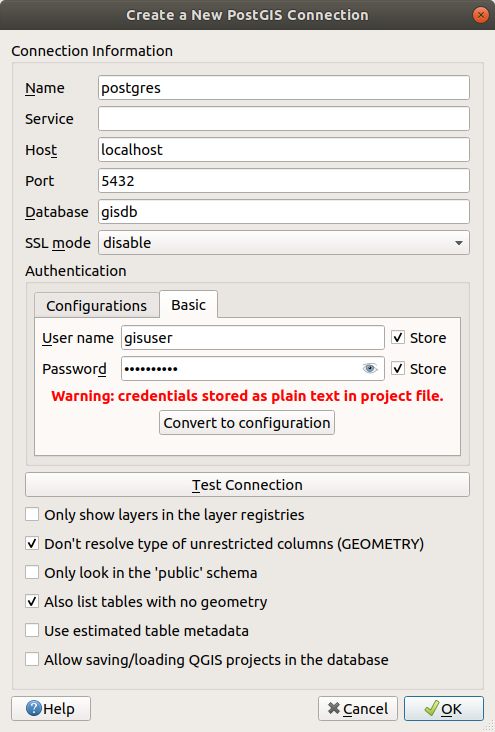
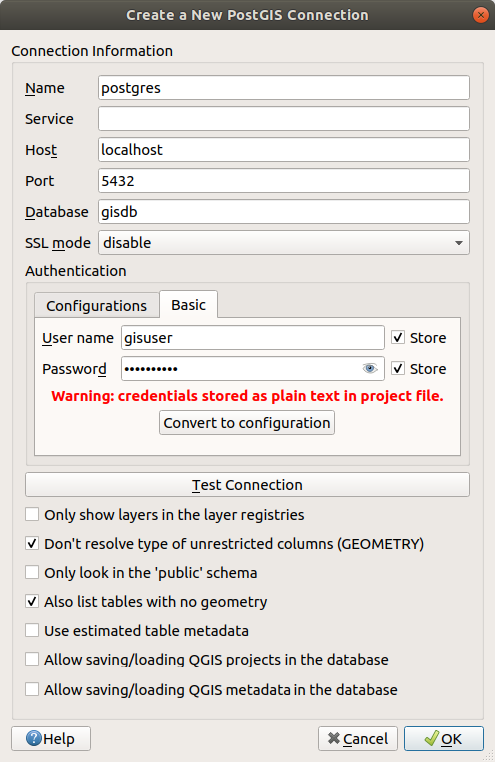
Document layer metadata search
Fix #7769

diff --git a/docs/user_manual/introduction/general_tools.rst b/docs/user_manual/introduction/general_tools.rst
@@ -177,68 +177,68 @@ right-click shows a dedicated set of options presented below.
 .. table updated with https://tableconvert.com/excel-to-restructuredtext
 .. table:: Contextual menus from Layers Panel items
 
- ============================================================ ============= =============== =============== ============= ==================== 
-  Option                                                       Group         Vector Layer    Raster Layer    Mesh Layer    Point Cloud Layer   
- ============================================================ ============= =============== =============== ============= ==================== 
-  |zoomToLayer| :guilabel:`Zoom to Layer(s)/Group`             |checkbox|    |checkbox|      |checkbox|      |checkbox|    |checkbox|          
-  |zoomToLayer| :guilabel:`Zoom to Selection`                                |checkbox|                                                        
-  |inOverview| :guilabel:`Show in Overview`                                  |checkbox|      |checkbox|      |checkbox|    |checkbox|          
-  :guilabel:`Show Feature Count`                                             |checkbox|                                                        
-  |labelingSingle| :guilabel:`Show Label`                                    |checkbox|                                                        
-  :guilabel:`Copy Layer/Group`                                 |checkbox|    |checkbox|      |checkbox|      |checkbox|    |checkbox|          
-  :guilabel:`Rename Layer/Group`                               |checkbox|    |checkbox|      |checkbox|      |checkbox|    |checkbox|          
-  |zoomActual| :guilabel:`Zoom to Native Resolution (100%)`                                  |checkbox|                                        
-  :guilabel:`Stretch Using Current Extent`                                                   |checkbox|                                        
-  |dbManager| :guilabel:`Update SQL Layer...`                                |checkbox|                                                        
-  |addVirtualLayer| :guilabel:`Edit Virtual Layer...`                        |checkbox|                                                        
-  |addGroup| :guilabel:`Add Group`                             |checkbox|                                                                      
-  |duplicateLayer| :guilabel:`Duplicate Layer`                               |checkbox|      |checkbox|      |checkbox|    |checkbox|          
-  |removeLayer| :guilabel:`Remove Layer/Group...`              |checkbox|    |checkbox|      |checkbox|      |checkbox|    |checkbox|          
-  :guilabel:`Move Out of Group`                                              |checkbox|      |checkbox|      |checkbox|    |checkbox|          
-  :guilabel:`Move to Top`                                      |checkbox|    |checkbox|      |checkbox|      |checkbox|    |checkbox|          
-  :guilabel:`Move to Bottom`                                   |checkbox|    |checkbox|      |checkbox|      |checkbox|    |checkbox|          
-  :guilabel:`Check and all its Parents`                                      |checkbox|      |checkbox|      |checkbox|    |checkbox|          
-  :guilabel:`Group Selected`                                                 |checkbox|      |checkbox|      |checkbox|    |checkbox|          
-  |openTable| :guilabel:`Open Attribute Table`                               |checkbox|                                                        
-  |toggleEditing| :guilabel:`Toggle Editing`                                 |checkbox|                      |checkbox|                        
-  |allEdits| :menuselection:`Current Edits -->`                              |checkbox|                      |checkbox|                        
-  :guilabel:`Filter...`                                                      |checkbox|      |checkbox|                    |checkbox|          
-  :guilabel:`Change Data Source...`                                          |checkbox|      |checkbox|      |checkbox|    |checkbox|          
-  :guilabel:`Repair Data Source...`                                          |checkbox|      |checkbox|      |checkbox|    |checkbox|          
-  :menuselection:`Actions on selections -->` (in edit mode)                  |checkbox|                                                        
-  :menuselection:`--> Duplicate Feature`                                     |checkbox|                                                        
-  :menuselection:`--> Duplicate Feature and Digitize`                        |checkbox|                                                        
-  :guilabel:`Set Layer Scale Visibility...`                                  |checkbox|      |checkbox|      |checkbox|    |checkbox|          
-  :guilabel:`Zoom to Visible Scale`                                          |checkbox|      |checkbox|      |checkbox|    |checkbox|          
-  :menuselection:`Layer CRS -->`                                             |checkbox|      |checkbox|      |checkbox|    |checkbox|          
-  :menuselection:`--> Set Project CRS from Layer`                            |checkbox|      |checkbox|      |checkbox|    |checkbox|          
-  :menuselection:`--> Set to..` (recent CRSs)                                                                |checkbox|    |checkbox|          
-  :menuselection:`--> Set Layer CRS...`                                      |checkbox|      |checkbox|      |checkbox|    |checkbox|          
-  :menuselection:`Set Group CRS...`                            |checkbox|                                                                      
-  :guilabel:`Set Group WMS Data...`                            |checkbox|                                                                      
-  |unchecked| :guilabel:`Mutually Exclusive Group`             |checkbox|                                                                      
-  :guilabel:`Check and all its children (Ctrl-click)`          |checkbox|                                                                      
-  :guilabel:`Uncheck and all its children (Ctrl-click)`        |checkbox|                                                                      
-  :guilabel:`Make Permanent`                                                 |checkbox|                                                        
-  :menuselection:`Export -->`                                  |checkbox|    |checkbox|      |checkbox|      |checkbox|    |checkbox|          
-  :menuselection:`--> Save As...`                                                            |checkbox|                                        
-  :menuselection:`--> Save Features As...`                                   |checkbox|                                                        
-  :menuselection:`--> Save Selected Features As...`                          |checkbox|                                                        
-  :menuselection:`--> Save As Layer Definition File...`        |checkbox|    |checkbox|      |checkbox|      |checkbox|    |checkbox|          
-  :menuselection:`--> Save As QGIS Layer Style File...`                      |checkbox|      |checkbox|      |checkbox|    |checkbox|          
-  :menuselection:`Styles -->`                                                |checkbox|      |checkbox|      |checkbox|    |checkbox|          
-  :menuselection:`--> Copy Style`                                            |checkbox|      |checkbox|      |checkbox|    |checkbox|          
-  :menuselection:`--> Paste Style`                             |checkbox|    |checkbox|      |checkbox|      |checkbox|    |checkbox|          
-  :menuselection:`--> Add...`                                                |checkbox|      |checkbox|      |checkbox|    |checkbox|          
-  :menuselection:`--> Rename Current...`                                     |checkbox|      |checkbox|      |checkbox|    |checkbox|          
-  :menuselection:`--> Edit symbol...`                                        |checkbox|                                                        
-  :menuselection:`--> Copy Symbol`                                           |checkbox|                                                        
-  :menuselection:`--> Paste Symbol`                                          |checkbox|                                                        
-  :guilabel:`Add Layer Notes...`                                             |checkbox|      |checkbox|      |checkbox|    |checkbox|          
-  :guilabel:`Edit Layer Notes...`                                            |checkbox|      |checkbox|      |checkbox|    |checkbox|          
-  :guilabel:`Remove Layer Notes`                                             |checkbox|      |checkbox|      |checkbox|    |checkbox|          
-  :guilabel:`Properties...`                                                  |checkbox|      |checkbox|      |checkbox|    |checkbox|          
- ============================================================ ============= =============== =============== ============= ==================== 
+ ============================================================ ============= =============== =============== ============= ====================
+  Option                                                       Group         Vector Layer    Raster Layer    Mesh Layer    Point Cloud Layer
+ ============================================================ ============= =============== =============== ============= ====================
+  |zoomToLayer| :guilabel:`Zoom to Layer(s)/Group`             |checkbox|    |checkbox|      |checkbox|      |checkbox|    |checkbox|
+  |zoomToLayer| :guilabel:`Zoom to Selection`                                |checkbox|
+  |inOverview| :guilabel:`Show in Overview`                                  |checkbox|      |checkbox|      |checkbox|    |checkbox|
+  :guilabel:`Show Feature Count`                                             |checkbox|
+  |labelingSingle| :guilabel:`Show Label`                                    |checkbox|
+  :guilabel:`Copy Layer/Group`                                 |checkbox|    |checkbox|      |checkbox|      |checkbox|    |checkbox|
+  :guilabel:`Rename Layer/Group`                               |checkbox|    |checkbox|      |checkbox|      |checkbox|    |checkbox|
+  |zoomActual| :guilabel:`Zoom to Native Resolution (100%)`                                  |checkbox|
+  :guilabel:`Stretch Using Current Extent`                                                   |checkbox|
+  |dbManager| :guilabel:`Update SQL Layer...`                                |checkbox|
+  |addVirtualLayer| :guilabel:`Edit Virtual Layer...`                        |checkbox|
+  |addGroup| :guilabel:`Add Group`                             |checkbox|
+  |duplicateLayer| :guilabel:`Duplicate Layer`                               |checkbox|      |checkbox|      |checkbox|    |checkbox|
+  |removeLayer| :guilabel:`Remove Layer/Group...`              |checkbox|    |checkbox|      |checkbox|      |checkbox|    |checkbox|
+  :guilabel:`Move Out of Group`                                              |checkbox|      |checkbox|      |checkbox|    |checkbox|
+  :guilabel:`Move to Top`                                      |checkbox|    |checkbox|      |checkbox|      |checkbox|    |checkbox|
+  :guilabel:`Move to Bottom`                                   |checkbox|    |checkbox|      |checkbox|      |checkbox|    |checkbox|
+  :guilabel:`Check and all its Parents`                                      |checkbox|      |checkbox|      |checkbox|    |checkbox|
+  :guilabel:`Group Selected`                                                 |checkbox|      |checkbox|      |checkbox|    |checkbox|
+  |openTable| :guilabel:`Open Attribute Table`                               |checkbox|
+  |toggleEditing| :guilabel:`Toggle Editing`                                 |checkbox|                      |checkbox|
+  |allEdits| :menuselection:`Current Edits -->`                              |checkbox|                      |checkbox|
+  :guilabel:`Filter...`                                                      |checkbox|      |checkbox|                    |checkbox|
+  :guilabel:`Change Data Source...`                                          |checkbox|      |checkbox|      |checkbox|    |checkbox|
+  :guilabel:`Repair Data Source...`                                          |checkbox|      |checkbox|      |checkbox|    |checkbox|
+  :menuselection:`Actions on selections -->` (in edit mode)                  |checkbox|
+  :menuselection:`--> Duplicate Feature`                                     |checkbox|
+  :menuselection:`--> Duplicate Feature and Digitize`                        |checkbox|
+  :guilabel:`Set Layer Scale Visibility...`                                  |checkbox|      |checkbox|      |checkbox|    |checkbox|
+  :guilabel:`Zoom to Visible Scale`                                          |checkbox|      |checkbox|      |checkbox|    |checkbox|
+  :menuselection:`Layer CRS -->`                                             |checkbox|      |checkbox|      |checkbox|    |checkbox|
+  :menuselection:`--> Set Project CRS from Layer`                            |checkbox|      |checkbox|      |checkbox|    |checkbox|
+  :menuselection:`--> Set to..` (recent CRSs)                                                                |checkbox|    |checkbox|
+  :menuselection:`--> Set Layer CRS...`                                      |checkbox|      |checkbox|      |checkbox|    |checkbox|
+  :menuselection:`Set Group CRS...`                            |checkbox|
+  :guilabel:`Set Group WMS Data...`                            |checkbox|
+  |unchecked| :guilabel:`Mutually Exclusive Group`             |checkbox|
+  :guilabel:`Check and all its children (Ctrl-click)`          |checkbox|
+  :guilabel:`Uncheck and all its children (Ctrl-click)`        |checkbox|
+  :guilabel:`Make Permanent`                                                 |checkbox|
+  :menuselection:`Export -->`                                  |checkbox|    |checkbox|      |checkbox|      |checkbox|    |checkbox|
+  :menuselection:`--> Save As...`                                                            |checkbox|
+  :menuselection:`--> Save Features As...`                                   |checkbox|
+  :menuselection:`--> Save Selected Features As...`                          |checkbox|
+  :menuselection:`--> Save As Layer Definition File...`        |checkbox|    |checkbox|      |checkbox|      |checkbox|    |checkbox|
+  :menuselection:`--> Save As QGIS Layer Style File...`                      |checkbox|      |checkbox|      |checkbox|    |checkbox|
+  :menuselection:`Styles -->`                                                |checkbox|      |checkbox|      |checkbox|    |checkbox|
+  :menuselection:`--> Copy Style`                                            |checkbox|      |checkbox|      |checkbox|    |checkbox|
+  :menuselection:`--> Paste Style`                             |checkbox|    |checkbox|      |checkbox|      |checkbox|    |checkbox|
+  :menuselection:`--> Add...`                                                |checkbox|      |checkbox|      |checkbox|    |checkbox|
+  :menuselection:`--> Rename Current...`                                     |checkbox|      |checkbox|      |checkbox|    |checkbox|
+  :menuselection:`--> Edit symbol...`                                        |checkbox|
+  :menuselection:`--> Copy Symbol`                                           |checkbox|
+  :menuselection:`--> Paste Symbol`                                          |checkbox|
+  :guilabel:`Add Layer Notes...`                                             |checkbox|      |checkbox|      |checkbox|    |checkbox|
+  :guilabel:`Edit Layer Notes...`                                            |checkbox|      |checkbox|      |checkbox|    |checkbox|
+  :guilabel:`Remove Layer Notes`                                             |checkbox|      |checkbox|      |checkbox|    |checkbox|
+  :guilabel:`Properties...`                                                  |checkbox|      |checkbox|      |checkbox|    |checkbox|
+ ============================================================ ============= =============== =============== ============= ====================
 
 
 For GRASS vector layers, |toggleEditing| :sup:`Toggle editing` is not available.
@@ -602,7 +602,7 @@ It also allows you to:
   every request has to be performed.
 * |search| :guilabel:`Filter requests`
 
-By right clicking on a request you can: 
+By right clicking on a request you can:
 
 * :guilabel:`Open URL` which will open the URL in your default browser.
 * :guilabel:`Copy URL`
@@ -618,7 +618,7 @@ By right clicking on a request you can:
 Profiler
 ........
 
-The :guilabel:`Profiler` allows to get load times for the Categories 
+The :guilabel:`Profiler` allows to get load times for the Categories
 :guilabel:`Startup` and :guilabel:`Project Load`, to identify causes of slow
 load times.
 
@@ -1000,7 +1000,7 @@ To create a bookmark:
    <extent_selector>` widget
 #. Indicate the :guilabel:`CRS` to use for the extent
 #. Select whether the bookmark will be :guilabel:`Saved in` :guilabel:`User
-   Bookmarks` or :guilabel:`Project Bookmarks` (by default, this drop-down list 
+   Bookmarks` or :guilabel:`Project Bookmarks` (by default, this drop-down list
    is set to :guilabel:`User Bookmarks`)
 #. Press :guilabel:`Save` to add the bookmark to the list
 
@@ -1531,7 +1531,7 @@ The |measure| :sup:`Measure Line` measures distances between given points.
 The tool then allows you to click points on the map. Each segment length,
 as well as the total, shows up in the measure window.
 To stop measuring, click the right mouse button. Now it is possible
-to copy all your line measurements at once to the clipboard using the 
+to copy all your line measurements at once to the clipboard using the
 :guilabel:`Copy All` button.
 
 Note that you can use the drop-down list near the total to change
@@ -1873,14 +1873,14 @@ default it will display the following information:
 * **Data attributes**: This is the list of attribute fields and values for the
   feature that has been clicked.
 * information about the related child feature if you defined a :ref:`relation <vector_relations>`:
-  
+
   * the name of the relation
   * the entry in reference field, e.g. the name of the related child feature
   * **Actions**: lists actions defined in the layer's properties dialog (see :ref:`actions_menu`)
     and the default action is ``View feature form``.
   * **Data attributes**: This is the list of attributes fields and values of the
-    related child feature. 
-  
+    related child feature.
+
 .. note:: Links in the feature's attributes are clickable from the :guilabel:`Identify
    Results` panel and will open in your default web browser.
 
@@ -2182,9 +2182,40 @@ A summary of the filled information is provided in the :guilabel:`Validation`
 tab and helps you identify potential issues related to the form. You can then
 either fix them or ignore them.
 
-Metadata are currently saved in the project file. They can also be saved in a
-:file:`.qmd` file alongside file based layers or in a local :file:`.sqlite`
-database for remote layers (e.g. PostGIS).
+Metadata are saved in the project file by default, the :guilabel:`Metadata` drop-down
+offers options for loading/saving metadata from :file:`.qmd` file
+and for loading/saving metadata in the "Default" location.
+
+.. _figure_metadata_save_options:
+
+.. figure:: img/metadata_save_options.png
+   :align: center
+
+   Metadata load/save options
+
+
+The "Default" location used by :guilabel:`Save as Default` and :guilabel:`Restore Default`
+changes depending on the underlaying data source and on its configuration:
+
+.. _`savemetadatatodb`:
+
+For PostgreSQL data sources if the configuration
+option :guilabel:`Allow saving/loading QGIS layer metadata in the database`
+is checked the metadata are stored inside a dedicated table in the
+database.
+
+For GeoPackage data sources :guilabel:`Save as Default` always saves the metadata
+in the internal metadata tables of the GeoPackage.
+
+When metadata are saved into the internal tables of PostgreSQL or GeoPackage they
+become available for search and filtering in the browser and in
+the :ref:`layer metadata search panel<layer_metadata_search_panel>`.
+
+For all other file based data sources :guilabel:`Save as Default` saves the metadata
+in a :file:`.qmd` file alongside the file.
+
+In all other cases :guilabel:`Save as Default` saves the metadata
+in a local :file:`.sqlite` database.
 
 
 .. _layer_notes:
@@ -2668,7 +2699,7 @@ But they can also have their custom settings. Provided categories are:
 
   * number of :guilabel:`Decimal places`
   * :guilabel:`Scaling` to indicate whether the actual values already represent
-    percentages (then they will be kept as is) or fractions (then they are converted)    
+    percentages (then they will be kept as is) or fractions (then they are converted)
 * :guilabel:`Scientific` notation in the form ``2.56e+03``. The number of
   :guilabel:`Decimal places` can be set.
 

diff --git a/docs/user_manual/managing_data_source/opening_data.rst b/docs/user_manual/managing_data_source/opening_data.rst
@@ -897,6 +897,8 @@ checkboxes:
 * |checkbox| :guilabel:`Use estimated table metadata`
 * |checkbox| :guilabel:`Allow saving/loading QGIS projects in the database`
   - more details :ref:`here <saveprojecttodb>`
+* |checkbox| :guilabel:`Allow saving/loading QGIS layer metadata in the database`
+  - more details :ref:`here <savemetadatatodb>`
 
 .. tip:: **Use estimated table metadata to speed up operations**
 
@@ -1216,6 +1218,25 @@ To load a layer from a database, you can perform the following steps:
   :ref:`DB Manager <dbmanager>` to drag and drop the database tables
   into the map canvas.
 
+.. _layer_metadata_search_panel:
+
+The Layer Metadata Search Panel
+===============================
+
+The layer metadata search panel allows to browse layers metadata,
+filter the results by text, by current project and map canvas extent
+and add the selected layers to the map canvas.
+
+The sources of metadata are implemented through a layer metadata provider
+system that can be extended by plugins, QGIS provides out of the
+box the layer metadata provider that retrieves the metadata from the
+connections that allow for metadata storage (for more details
+:ref:`here <savemetadatatodb>`).
+
+.. figure:: img/layer_metadata_search_panel.png
+   :align: center
+
+   Layer Metadata Search Panel
 
 QGIS Custom formats
 ===================
@@ -1341,7 +1362,7 @@ Press :guilabel:`New` (respectively :guilabel:`New Connection`) and provide:
 
 .. _interpretation:
 
-* :guilabel:`Interpretation`: converts WMTS/XYZ raster datasets to a raster 
+* :guilabel:`Interpretation`: converts WMTS/XYZ raster datasets to a raster
   layer of single band float type following a predefined encoding scheme.
   Supported schemes are :guilabel:`Default` (no conversion is done),
   :guilabel:`MapTiler Terrain RGB` and :guilabel:`Terrarium Terrain RGB`.
@@ -1377,7 +1398,7 @@ The XML file for OpenStreetMap looks like this:
   <!DOCTYPE connections>
   <qgsXYZTilesConnections version="1.0">
     <xyztiles url="https://tile.openstreetmap.org/{z}/{x}/{y}.png"
-     zmin="0" zmax="19" tilePixelRatio="0" password="" name="OpenStreetMap" 
+     zmin="0" zmax="19" tilePixelRatio="0" password="" name="OpenStreetMap"
      username="" authcfg="" referer=""/>
   </qgsXYZTilesConnections>
 
@@ -1416,7 +1437,7 @@ Using ArcGIS REST Servers
 -------------------------
 
 ArcGIS REST Servers can be added via the
-|addAfsLayer| :guilabel:`ArcGIS REST Server` tab of the 
+|addAfsLayer| :guilabel:`ArcGIS REST Server` tab of the
 :guilabel:`Data Source Manager` dialog or the contextual menu of the
 :guilabel:`ArcGIS REST Servers` entry in the :guilabel:`Browser` panel.
 Press :guilabel:`New` (respectively :guilabel:`New Connection`) and provide:
@@ -1430,7 +1451,7 @@ Press :guilabel:`New` (respectively :guilabel:`New Connection`) and provide:
 
 .. note::
 
-   ArcGIS Feature Service connections which have their corresponding Portal 
+   ArcGIS Feature Service connections which have their corresponding Portal
    endpoint URLS set can be explored by content groups in the browser panel.
 
    If a connection has the Portal endpoints set, then expanding out the connection
